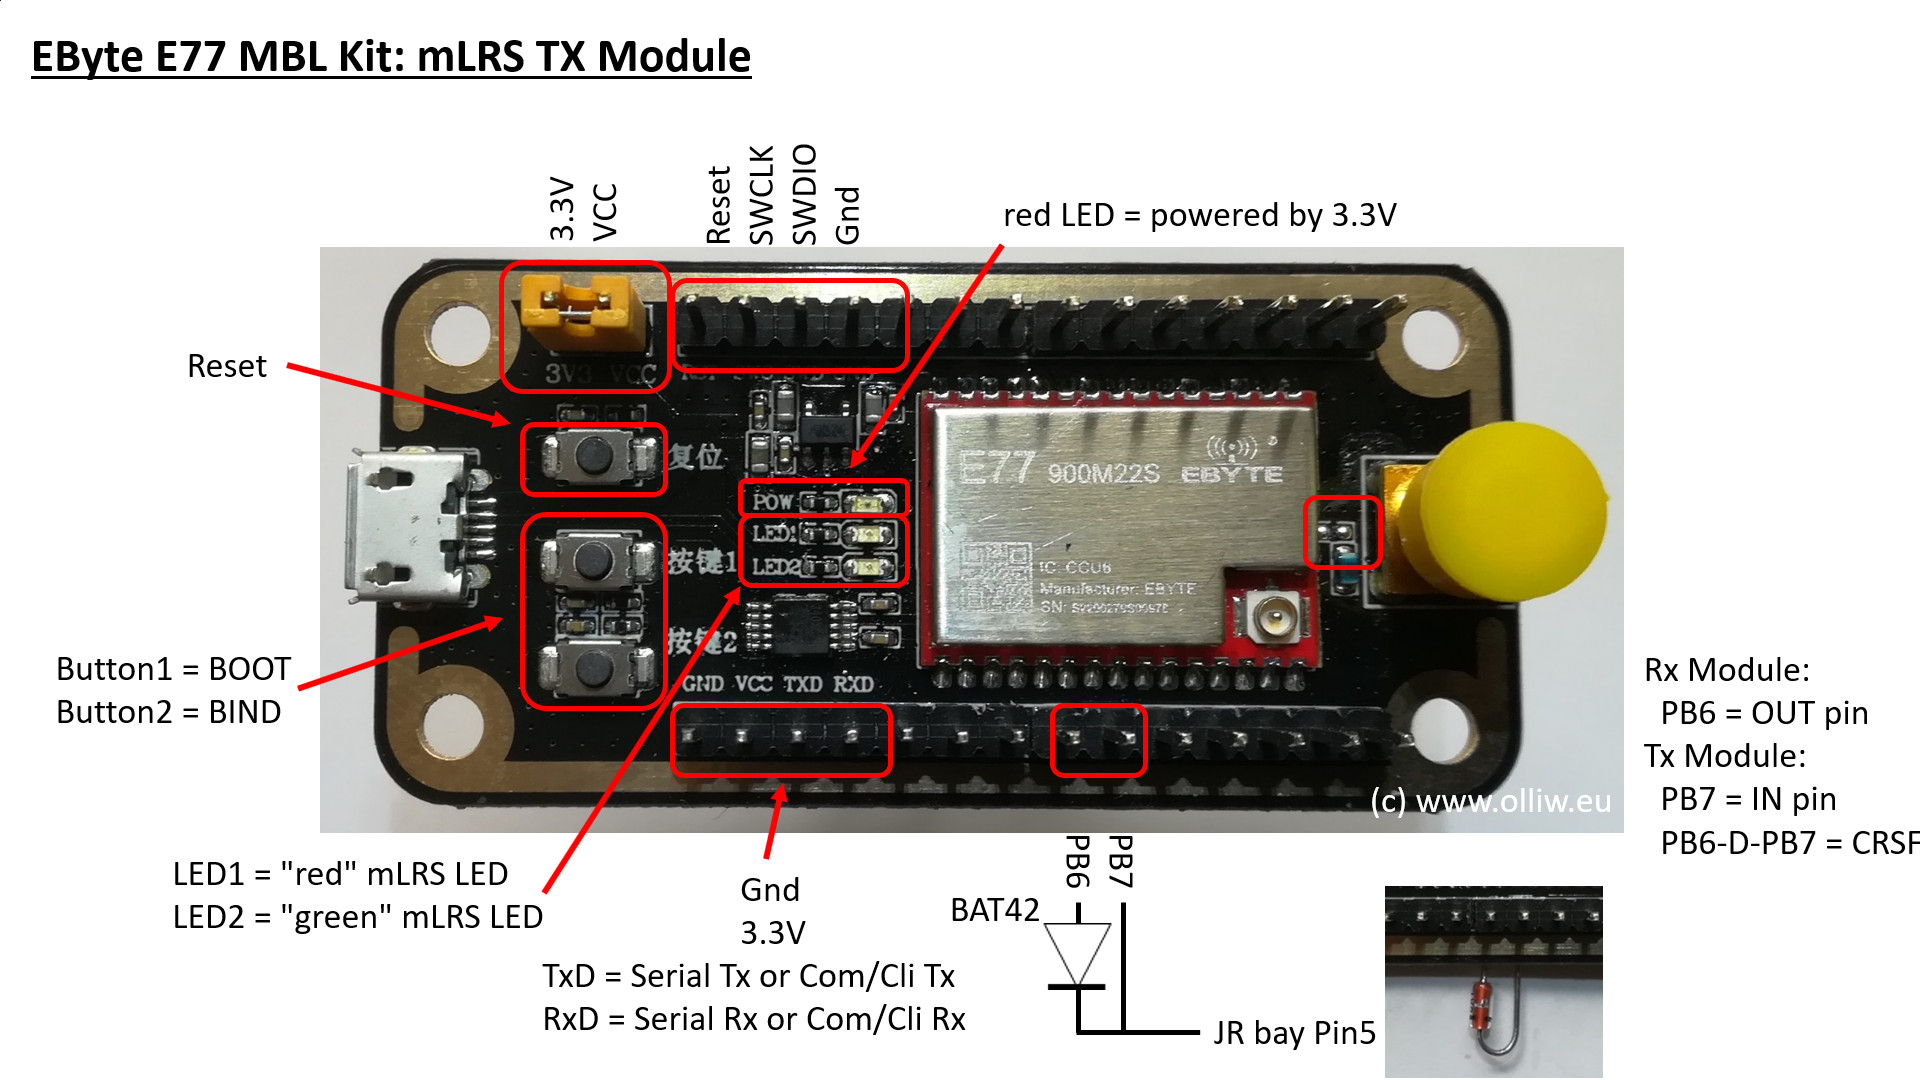
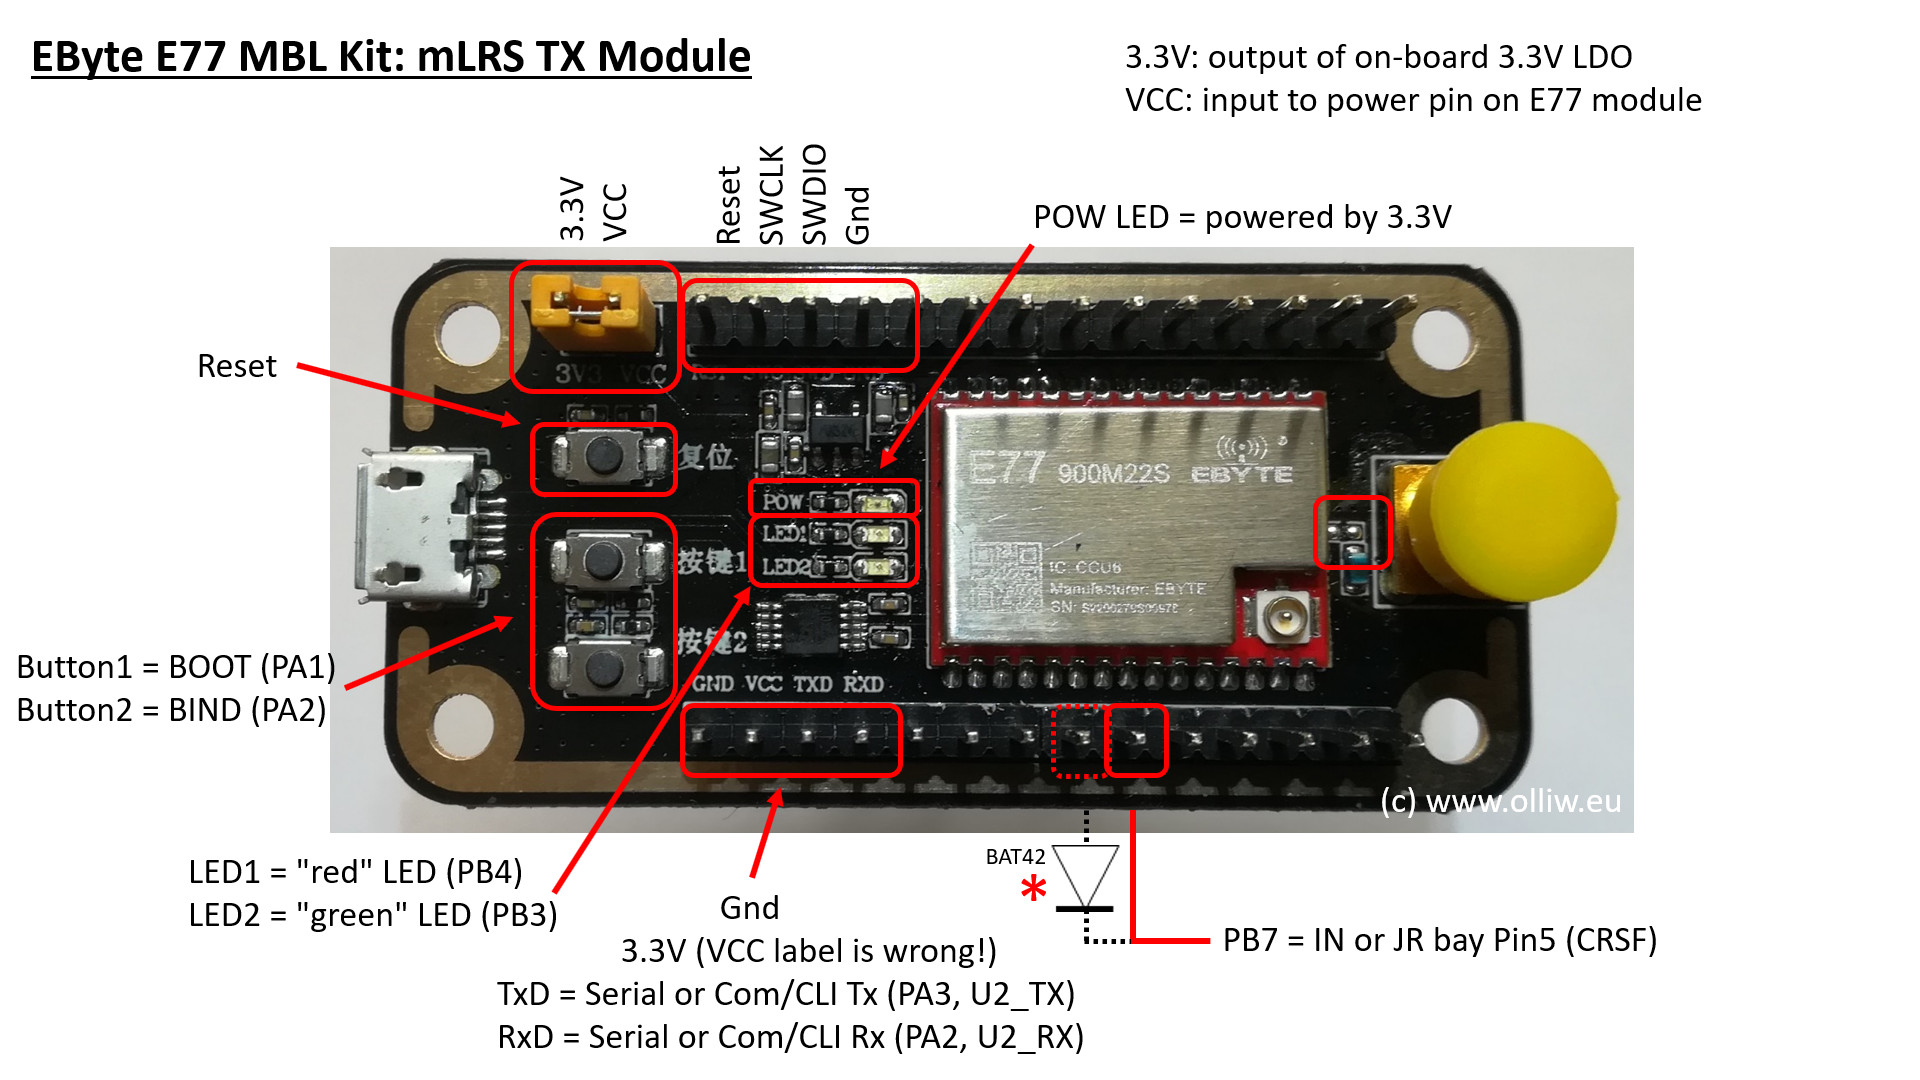
E77 image, diode update (#67)

diff --git a/docs/EBYTE_E77_MBL.md b/docs/EBYTE_E77_MBL.md
@@ -44,11 +44,12 @@ Connections (name in respect to board print-ons, otherwise please refer to graph
 
 Notes:
 
-- To communicate with the radio via the JR bay (pin 5 in the JR bay), you need to solder a Schottky diode (e.g. BAT42) between pads PB7 and PB6 (see graphic)
 - To enable the cli, hold down button2 during boot
 - To enter system bootloader, hold down button1 during boot
 
 <img src="images/mLRS-EByte-E77-MBLKit-Tx.jpg" width="900px">
+
+*The Schottky diode between the PB6 and PB7 pins is not needed with the default firmware. If you are having communication issues between the radio and the Tx module then you can install the Schottky diode and use the 'sdiode' firmware ('sdiode' will be included in the file name, e.g. tx-E77-MBLKit-wle5cc-400-**sdiode**-vX.X.XX.hex).  
 
 ### As Rx Module ###
 
